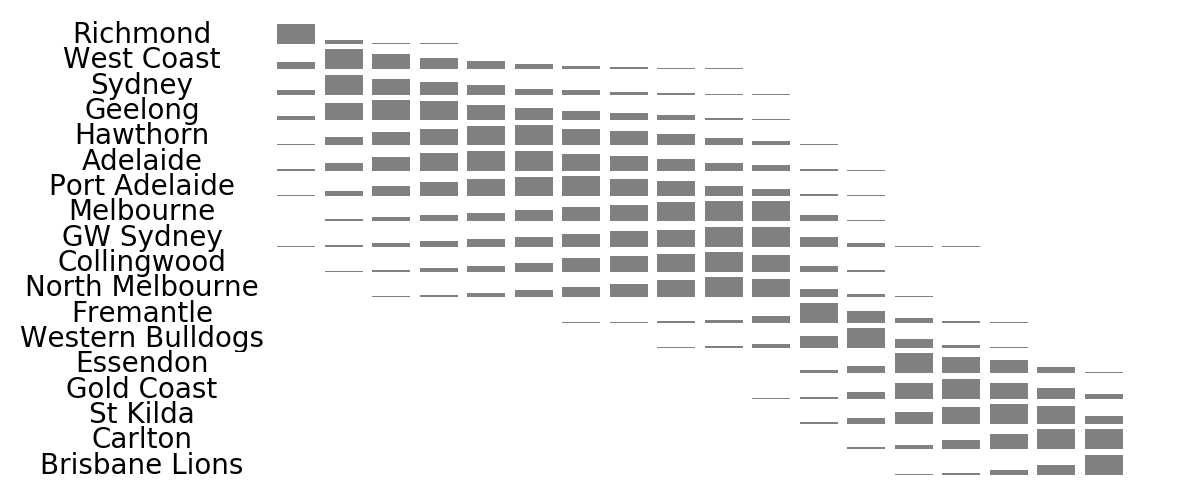
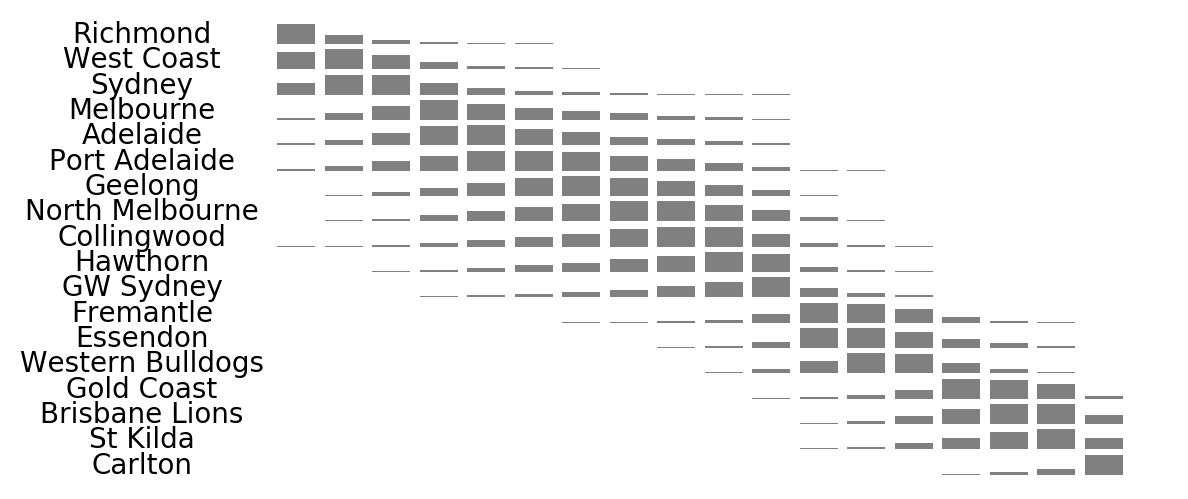
update

diff --git a/teamratinggraphs.html b/teamratinggraphs.html
@@ -1,0 +1,23 @@
+---
+layout: page
+title: Team Rating Graphs
+---
+
+<p><img src="/img/Adelaide.png"/></p>
+<p><img src="/img/Brisbane Lions.png"/></p>
+<p><img src="/img/Carlton.png"/></p>
+<p><img src="/img/Collingwood.png"/></p>
+<p><img src="/img/Essendon.png"/></p>
+<p><img src="/img/Fremantle.png"/></p>
+<p><img src="/img/Geelong.png"/></p>
+<p><img src="/img/Gold Coast.png"/></p>
+<p><img src="/img/GW Sydney.png"/></p>
+<p><img src="/img/Hawthorn.png"/></p>
+<p><img src="/img/Melbourne.png"/></p>
+<p><img src="/img/North Melbourne.png"/></p>
+<p><img src="/img/Port Adelaide.png"/></p>
+<p><img src="/img/Richmond.png"/></p>
+<p><img src="/img/St Kilda.png"/></p>
+<p><img src="/img/Sydney.png"/></p>
+<p><img src="/img/West Coast.png"/></p>
+<p><img src="/img/Western Bulldogs.png"/></p>

diff --git a/seasonsimulation.md b/seasonsimulation.md
@@ -1,9 +1,9 @@
 ---
 layout: page
 title: AFL Season Simulation
-subtitle: Updated Post Round 8
+subtitle: Updated Post Round 9
 ---
-<table border="1" class="dataframe">   <thead>     <tr style="text-align: center;">       <th>Team</th>       <th>Average Wins</th>       <th>Average Position</th>       <th>Median Position</th>       <th>Standard Deviation</th>       <th>High</th>       <th>Low</th>       <th>Finals Prob</th>       <th>Top 4 Prob</th>       <th>Minor Premier Prob</th>       <th>Bottom 4 Prob</th>       <th>Wooden Spoon Prob</th>       <th>Premiership Prob</th>     </tr>   </thead>   <tbody>     <tr>       <td>Richmond</td>       <td>17.6623</td>       <td>1.3811</td>       <td>1</td>       <td>0.896138</td>       <td>1</td>       <td>9</td>       <td>99.97</td>       <td>98.25</td>       <td>77.76</td>       <td>0</td>       <td>0</td>       <td>54.68</td>     </tr>     <tr>       <td>West Coast</td>       <td>15.4325</td>       <td>3.6771</td>       <td>3</td>       <td>2.09968</td>       <td>1</td>       <td>13</td>       <td>96.48</td>       <td>71.38</td>       <td>9.25</td>       <td>0</td>       <td>0</td>       <td>7.18</td>     </tr>     <tr>       <td>Sydney</td>       <td>15.0352</td>       <td>3.9085</td>       <td>3</td>       <td>2.15145</td>       <td>1</td>       <td>13</td>       <td>95.96</td>       <td>67.67</td>       <td>6.24</td>       <td>0</td>       <td>0</td>       <td>9.67</td>     </tr>     <tr>       <td>Geelong</td>       <td>14.2922</td>       <td>4.7065</td>       <td>4</td>       <td>2.34827</td>       <td>1</td>       <td>14</td>       <td>92.06</td>       <td>53.6</td>       <td>3.24</td>       <td>0</td>       <td>0</td>       <td>10.44</td>     </tr>     <tr>       <td>Hawthorn</td>       <td>13.7926</td>       <td>6.0365</td>       <td>6</td>       <td>2.48052</td>       <td>1</td>       <td>15</td>       <td>82.09</td>       <td>29.62</td>       <td>1.04</td>       <td>0.01</td>       <td>0</td>       <td>4.74</td>     </tr>     <tr>       <td>Adelaide</td>       <td>13.6446</td>       <td>6.1163</td>       <td>6</td>       <td>2.54173</td>       <td>1</td>       <td>15</td>       <td>80.62</td>       <td>29.63</td>       <td>1.01</td>       <td>0.02</td>       <td>0</td>       <td>5.23</td>     </tr>     <tr>       <td>Port Adelaide</td>       <td>13.4735</td>       <td>6.6795</td>       <td>7</td>       <td>2.51396</td>       <td>1</td>       <td>15</td>       <td>74.55</td>       <td>21.33</td>       <td>0.87</td>       <td>0.01</td>       <td>0</td>       <td>3.8</td>     </tr>     <tr>       <td>Melbourne</td>       <td>12.6448</td>       <td>8.2785</td>       <td>9</td>       <td>2.56459</td>       <td>1</td>       <td>16</td>       <td>47.96</td>       <td>9.59</td>       <td>0.21</td>       <td>0.08</td>       <td>0</td>       <td>1.34</td>     </tr>     <tr>       <td>GW Sydney</td>       <td>12.158</td>       <td>8.5554</td>       <td>9</td>       <td>2.65833</td>       <td>1</td>       <td>17</td>       <td>44.36</td>       <td>9.03</td>       <td>0.27</td>       <td>0.2</td>       <td>0</td>       <td>1.35</td>     </tr>     <tr>       <td>Collingwood</td>       <td>12.3537</td>       <td>8.5676</td>       <td>9</td>       <td>2.34564</td>       <td>1</td>       <td>16</td>       <td>45.09</td>       <td>5.69</td>       <td>0.04</td>       <td>0.08</td>       <td>0</td>       <td>0.95</td>     </tr>     <tr>       <td>North Melbourne</td>       <td>11.8391</td>       <td>9.0676</td>       <td>9</td>       <td>2.32048</td>       <td>1</td>       <td>17</td>       <td>36.29</td>       <td>4.04</td>       <td>0.07</td>       <td>0.25</td>       <td>0</td>       <td>0.61</td>     </tr>     <tr>       <td>Fremantle</td>       <td>9.3043</td>       <td>12.105</td>       <td>12</td>       <td>1.60866</td>       <td>2</td>       <td>18</td>       <td>3.11</td>       <td>0.11</td>       <td>0</td>       <td>5.41</td>       <td>0.05</td>       <td>0.01</td>     </tr>     <tr>       <td>Western Bulldogs</td>       <td>8.7523</td>       <td>12.7433</td>       <td>13</td>       <td>1.53043</td>       <td>4</td>       <td>18</td>       <td>1.4</td>       <td>0.06</td>       <td>0</td>       <td>9.39</td>       <td>0.08</td>       <td>0</td>     </tr>     <tr>       <td>Essendon</td>       <td>6.617</td>       <td>14.7473</td>       <td>15</td>       <td>1.44015</td>       <td>8</td>       <td>18</td>       <td>0.01</td>       <td>0</td>       <td>0</td>       <td>54.44</td>       <td>2.31</td>       <td>0</td>     </tr>     <tr>       <td>Gold Coast</td>       <td>6.6154</td>       <td>15.1561</td>       <td>15</td>       <td>1.50895</td>       <td>7</td>       <td>18</td>       <td>0.05</td>       <td>0</td>       <td>0</td>       <td>66.71</td>       <td>6.04</td>       <td>0</td>     </tr>     <tr>       <td>St Kilda</td>       <td>5.7642</td>       <td>15.6114</td>       <td>16</td>       <td>1.54551</td>       <td>9</td>       <td>18</td>       <td>0</td>       <td>0</td>       <td>0</td>       <td>76.14</td>       <td>10.19</td>       <td>0</td>     </tr>     <tr>       <td>Carlton</td>       <td>4.9502</td>       <td>16.4389</td>       <td>17</td>       <td>1.41868</td>       <td>9</td>       <td>18</td>       <td>0</td>       <td>0</td>       <td>0</td>       <td>89.92</td>       <td>27.51</td>       <td>0</td>     </tr>     <tr>       <td>Brisbane Lions</td>       <td>3.6681</td>       <td>17.2234</td>       <td>18</td>       <td>1.05532</td>       <td>12</td>       <td>18</td>       <td>0</td>       <td>0</td>       <td>0</td>       <td>97.34</td>       <td>53.82</td>       <td>0</td>     </tr>   </tbody> </table>
+<table border="1" class="dataframe">   <thead>     <tr style="text-align: center;">       <th>Team</th>       <th>Average Wins</th>       <th>Average Position</th>       <th>Median Position</th>       <th>Standard Deviation</th>       <th>High</th>       <th>Low</th>       <th>Finals Prob</th>       <th>Top 4 Prob</th>       <th>Minor Premier Prob</th>       <th>Bottom 4 Prob</th>       <th>Wooden Spoon Prob</th>       <th>Premiership Prob</th>     </tr>   </thead>   <tbody>     <tr>       <td>Richmond</td>       <td>16.7119</td>       <td>1.9061</td>       <td>1</td>       <td>1.30257</td>       <td>1</td>       <td>10</td>       <td>99.82</td>       <td>94.55</td>       <td>52.67</td>       <td>0</td>       <td>0</td>       <td>43.53</td>     </tr>     <tr>       <td>West Coast</td>       <td>16.3404</td>       <td>2.6234</td>       <td>2</td>       <td>1.58543</td>       <td>1</td>       <td>11</td>       <td>99.32</td>       <td>88.76</td>       <td>26.06</td>       <td>0</td>       <td>0</td>       <td>12.66</td>     </tr>     <tr>       <td>Sydney</td>       <td>15.4967</td>       <td>3.2084</td>       <td>3</td>       <td>1.8057</td>       <td>1</td>       <td>12</td>       <td>98.49</td>       <td>80.49</td>       <td>14.81</td>       <td>0</td>       <td>0</td>       <td>14.97</td>     </tr>     <tr>       <td>Melbourne</td>       <td>14.2171</td>       <td>5.1218</td>       <td>5</td>       <td>2.23217</td>       <td>1</td>       <td>13</td>       <td>91.33</td>       <td>45.53</td>       <td>2.31</td>       <td>0</td>       <td>0</td>       <td>11.42</td>     </tr>     <tr>       <td>Adelaide</td>       <td>13.9518</td>       <td>5.6225</td>       <td>5</td>       <td>2.31045</td>       <td>1</td>       <td>13</td>       <td>87.4</td>       <td>34.79</td>       <td>1.74</td>       <td>0</td>       <td>0</td>       <td>6.32</td>     </tr>     <tr>       <td>Port Adelaide</td>       <td>13.8311</td>       <td>6.2583</td>       <td>6</td>       <td>2.3911</td>       <td>1</td>       <td>14</td>       <td>81.07</td>       <td>24.26</td>       <td>1.57</td>       <td>0</td>       <td>0</td>       <td>4.7</td>     </tr>     <tr>       <td>Geelong</td>       <td>12.9112</td>       <td>7.1813</td>       <td>7</td>       <td>2.20241</td>       <td>1</td>       <td>15</td>       <td>71.54</td>       <td>11.43</td>       <td>0.32</td>       <td>0.01</td>       <td>0</td>       <td>2.43</td>     </tr>     <tr>       <td>North Melbourne</td>       <td>12.4948</td>       <td>7.9321</td>       <td>8</td>       <td>2.35527</td>       <td>1</td>       <td>16</td>       <td>57.22</td>       <td>8.08</td>       <td>0.16</td>       <td>0.06</td>       <td>0</td>       <td>1.86</td>     </tr>     <tr>       <td>Collingwood</td>       <td>12.4153</td>       <td>8.3622</td>       <td>9</td>       <td>2.21622</td>       <td>1</td>       <td>15</td>       <td>48.09</td>       <td>5.52</td>       <td>0.21</td>       <td>0.02</td>       <td>0</td>       <td>1.07</td>     </tr>     <tr>       <td>Hawthorn</td>       <td>12.1076</td>       <td>8.915</td>       <td>9</td>       <td>2.22382</td>       <td>1</td>       <td>16</td>       <td>37.36</td>       <td>3.93</td>       <td>0.07</td>       <td>0.13</td>       <td>0</td>       <td>0.72</td>     </tr>     <tr>       <td>GW Sydney</td>       <td>11.1866</td>       <td>9.7588</td>       <td>10</td>       <td>2.32998</td>       <td>1</td>       <td>17</td>       <td>25.56</td>       <td>2.63</td>       <td>0.08</td>       <td>0.93</td>       <td>0</td>       <td>0.32</td>     </tr>     <tr>       <td>Fremantle</td>       <td>8.7939</td>       <td>12.6479</td>       <td>13</td>       <td>1.61973</td>       <td>4</td>       <td>18</td>       <td>1.56</td>       <td>0.01</td>       <td>0</td>       <td>10.4</td>       <td>0.15</td>       <td>0</td>     </tr>     <tr>       <td>Essendon</td>       <td>8.0352</td>       <td>13.2283</td>       <td>13</td>       <td>1.61826</td>       <td>6</td>       <td>18</td>       <td>0.35</td>       <td>0</td>       <td>0</td>       <td>20.35</td>       <td>0.37</td>       <td>0</td>     </tr>     <tr>       <td>Western Bulldogs</td>       <td>8.3521</td>       <td>13.3351</td>       <td>13</td>       <td>1.61932</td>       <td>4</td>       <td>18</td>       <td>0.86</td>       <td>0.02</td>       <td>0</td>       <td>21.31</td>       <td>0.21</td>       <td>0</td>     </tr>     <tr>       <td>Gold Coast</td>       <td>6.3397</td>       <td>15.4774</td>       <td>16</td>       <td>1.38841</td>       <td>9</td>       <td>18</td>       <td>0</td>       <td>0</td>       <td>0</td>       <td>79.22</td>       <td>4.43</td>       <td>0</td>     </tr>     <tr>       <td>Brisbane Lions</td>       <td>5.5225</td>       <td>15.8713</td>       <td>16</td>       <td>1.4381</td>       <td>8</td>       <td>18</td>       <td>0.01</td>       <td>0</td>       <td>0</td>       <td>83.4</td>       <td>11.79</td>       <td>0</td>     </tr>     <tr>       <td>St Kilda</td>       <td>5.4556</td>       <td>16.072</td>       <td>16</td>       <td>1.4754</td>       <td>8</td>       <td>18</td>       <td>0.02</td>       <td>0</td>       <td>0</td>       <td>85.44</td>       <td>16.25</td>       <td>0</td>     </tr>     <tr>       <td>Carlton</td>       <td>3.8365</td>       <td>17.4781</td>       <td>18</td>       <td>0.893712</td>       <td>11</td>       <td>18</td>       <td>0</td>       <td>0</td>       <td>0</td>       <td>98.73</td>       <td>66.8</td>       <td>0</td>     </tr>   </tbody> </table>
 <p>Based on 10,000 simulations.</p>
 
 <img src="/img/histogram.png"/>
